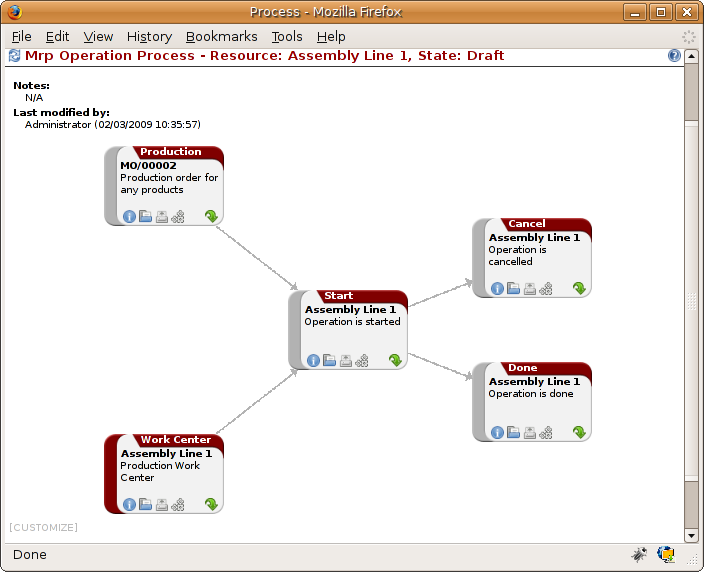
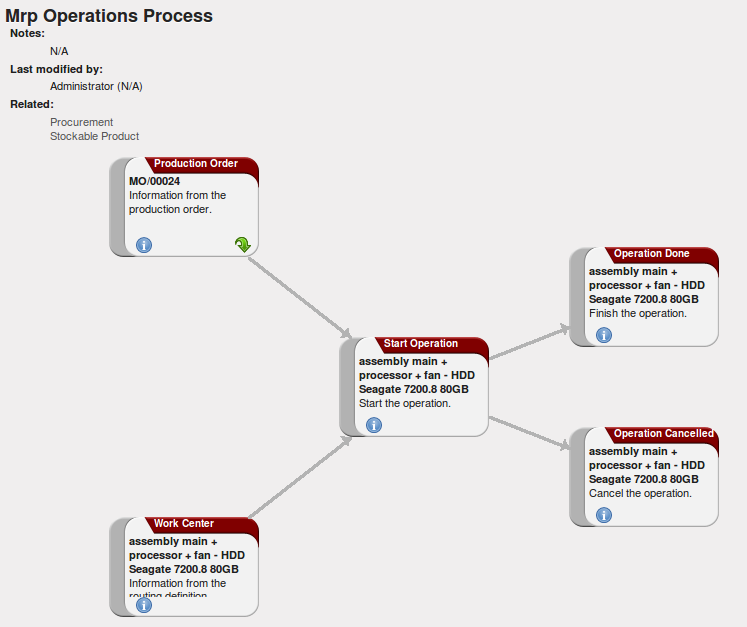
[IMP]: Manufacturing: Work operations, Management of operations

Changed region(s): [[0.0, 0.0, 1.0, 1.0]]

diff --git a/5/5_15_Manufacturing/5_15_Manufacturing_lead.rst b/5/5_15_Manufacturing/5_15_Manufacturing_lead.rst
@@ -306,7 +306,7 @@ Work operations
 ---------------
 
 A production order defines the use of the products defined in the Bills of Materials, and the
-operations defined in the routing. You've seen how to handle manufacturing production as a top-level process,
+operations defined in the routing. You have seen how to handle manufacturing production as a top-level process,
 but some companies prefer to have finer-grained control of operations where instead of
 specifying just the production process itself, they enter data on each constituent production operation.
 
@@ -321,18 +321,27 @@ Management of operations
    single: module; mrp_operations
 
 To work using work orders you must install the optional module :mod:`mrp_operations`. Once the module
-is installed you'll find a new menu called :menuselection:`Manufacturing --> Operations -->
-Operations` to be carried out. The assembly workers must then encode each step operation by
+is installed you will find a new menu called :menuselection:`Manufacturing --> Manufacturing --> Work Orders`.
+
+.. figure:: images/mrp_work_order_definition.png
+   :scale: 75
+   :align: center
+
+   *Work Order definition*
+
+The assembly workers must then encode each step operation by
 operation and, for each step, the real working time for it.
+OpenERP support the editable workflow through the menu :menuselection:`Administration --> Customization --> Workflows --> Workflows`.
+You can find the operation workflow and edit according to necessecity.
 
 .. figure:: images/mrp_operations_tree.png
    :scale: 75
    :align: center
 
-   *List of operations to be carried out.*
+   *List of operations to be carried out*
 
 Operations must then be carried out one by one. On each operation the operator can click on
-:guilabel:`Start operation` and then :guilabel:`Close Operation`. The time is then worked out
+:guilabel:`Start` button. The time is then worked out
 automatically on the operation between the two changes of status. The operator can also put the
 operation on hold and start again later.
 
@@ -346,7 +355,7 @@ The following process is attached to each operation.
 
 Thanks to this use by operation, the real working time is recorded on the production order.
 
-The production order is automatically put into the state 'Running' once the first operation has been
+The production order is automatically put into the state 'In Production' once the first operation has been
 started. That consumes some raw materials. Similarly the production order is closed automatically
 once the last operation is completed. The finished products are then made.
 
